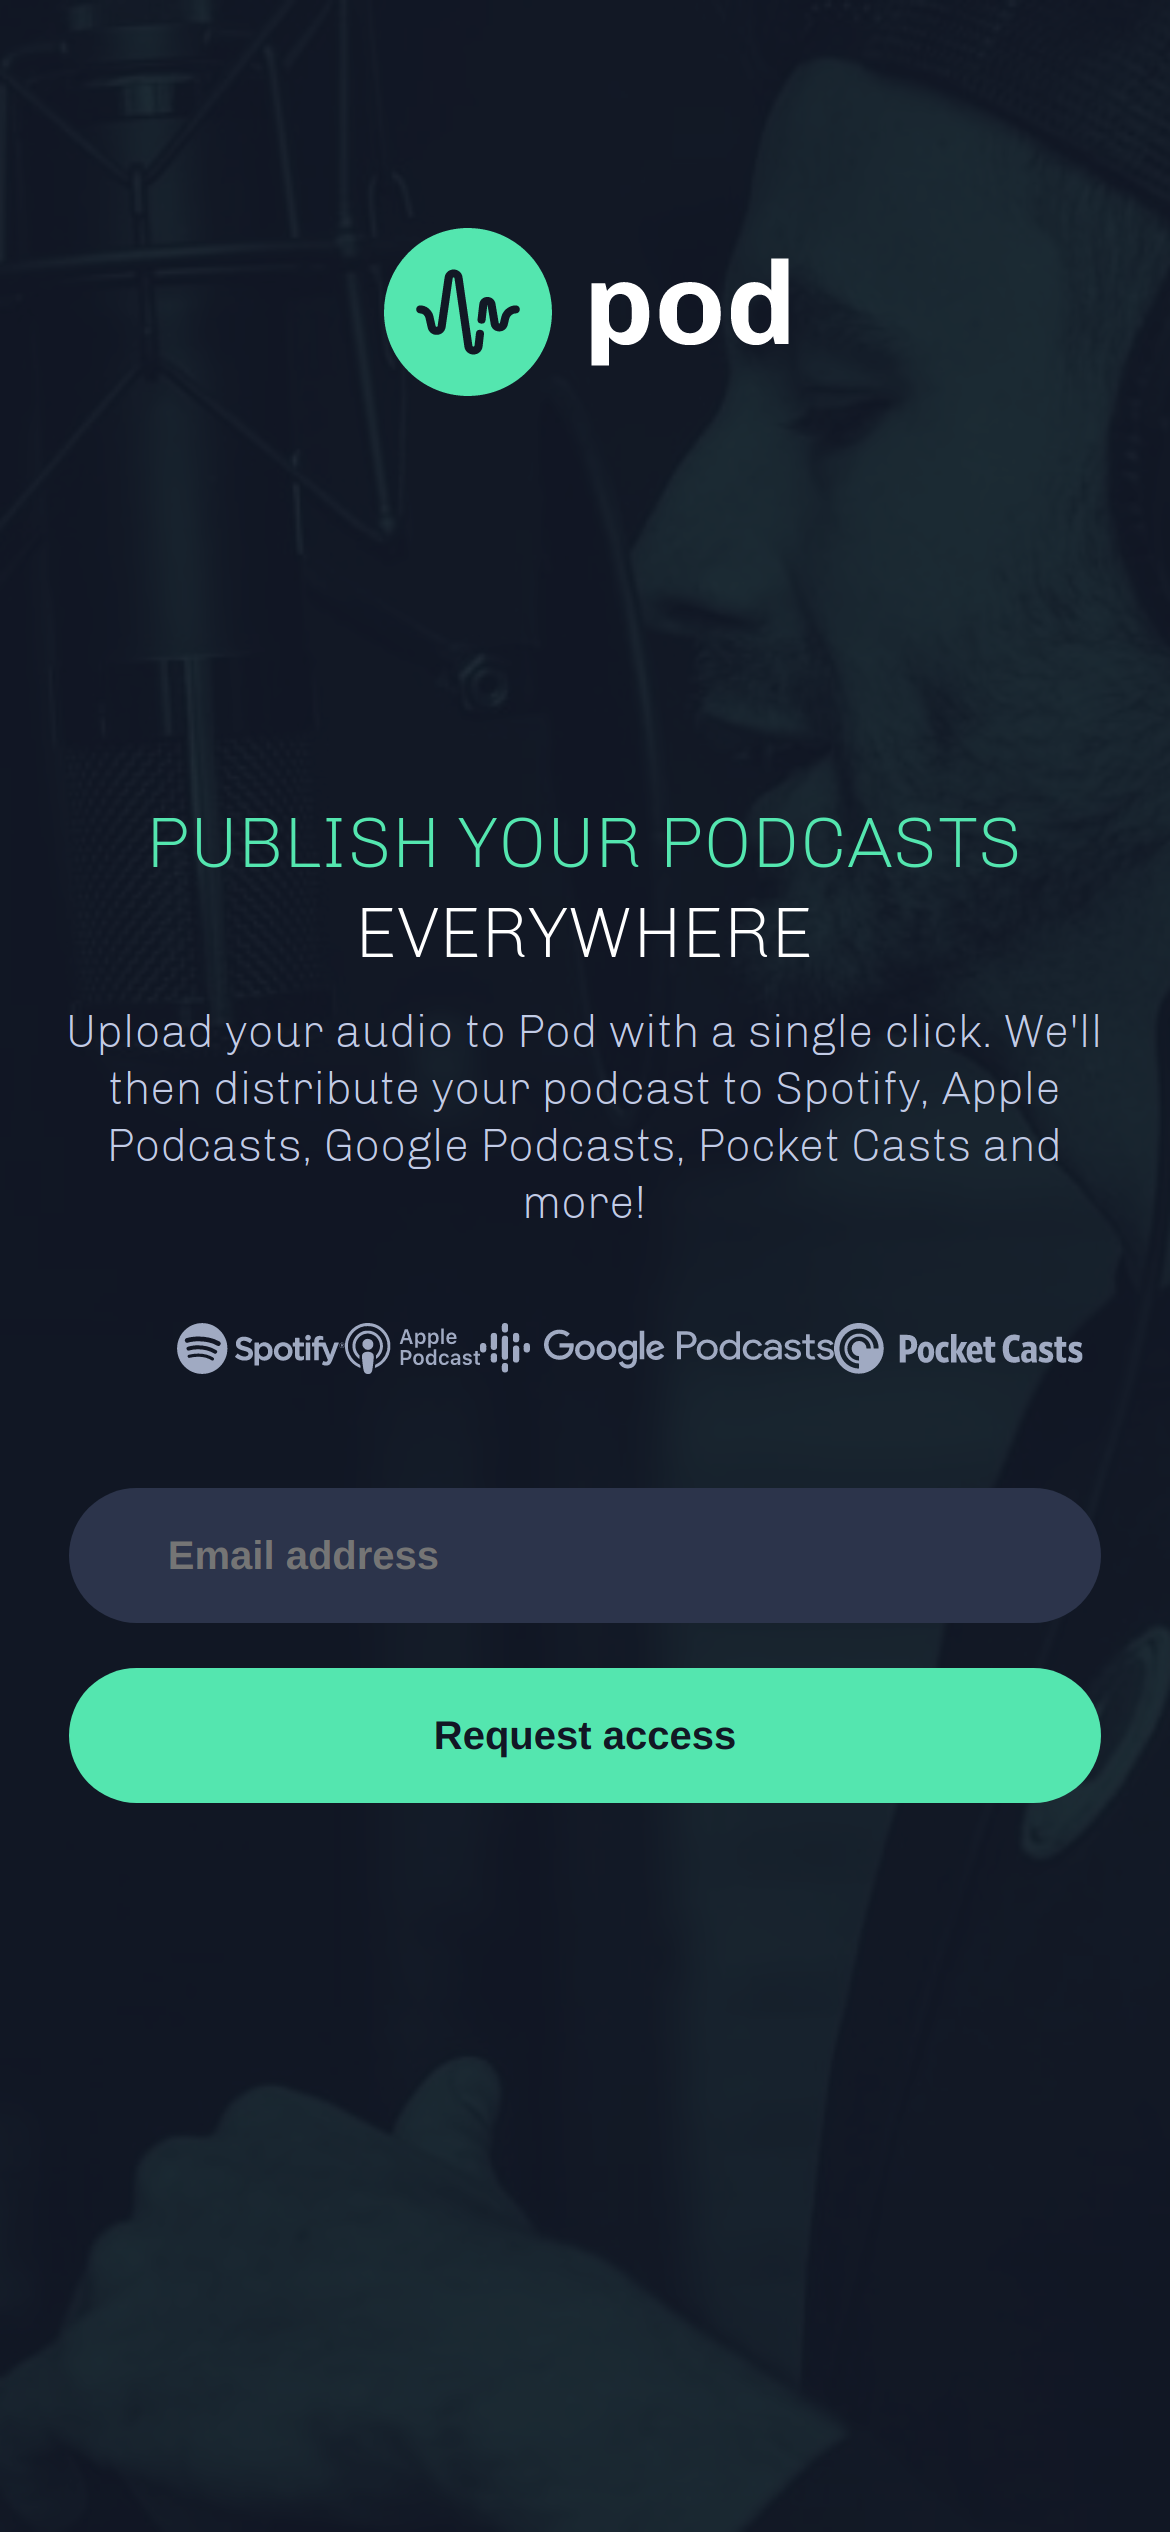
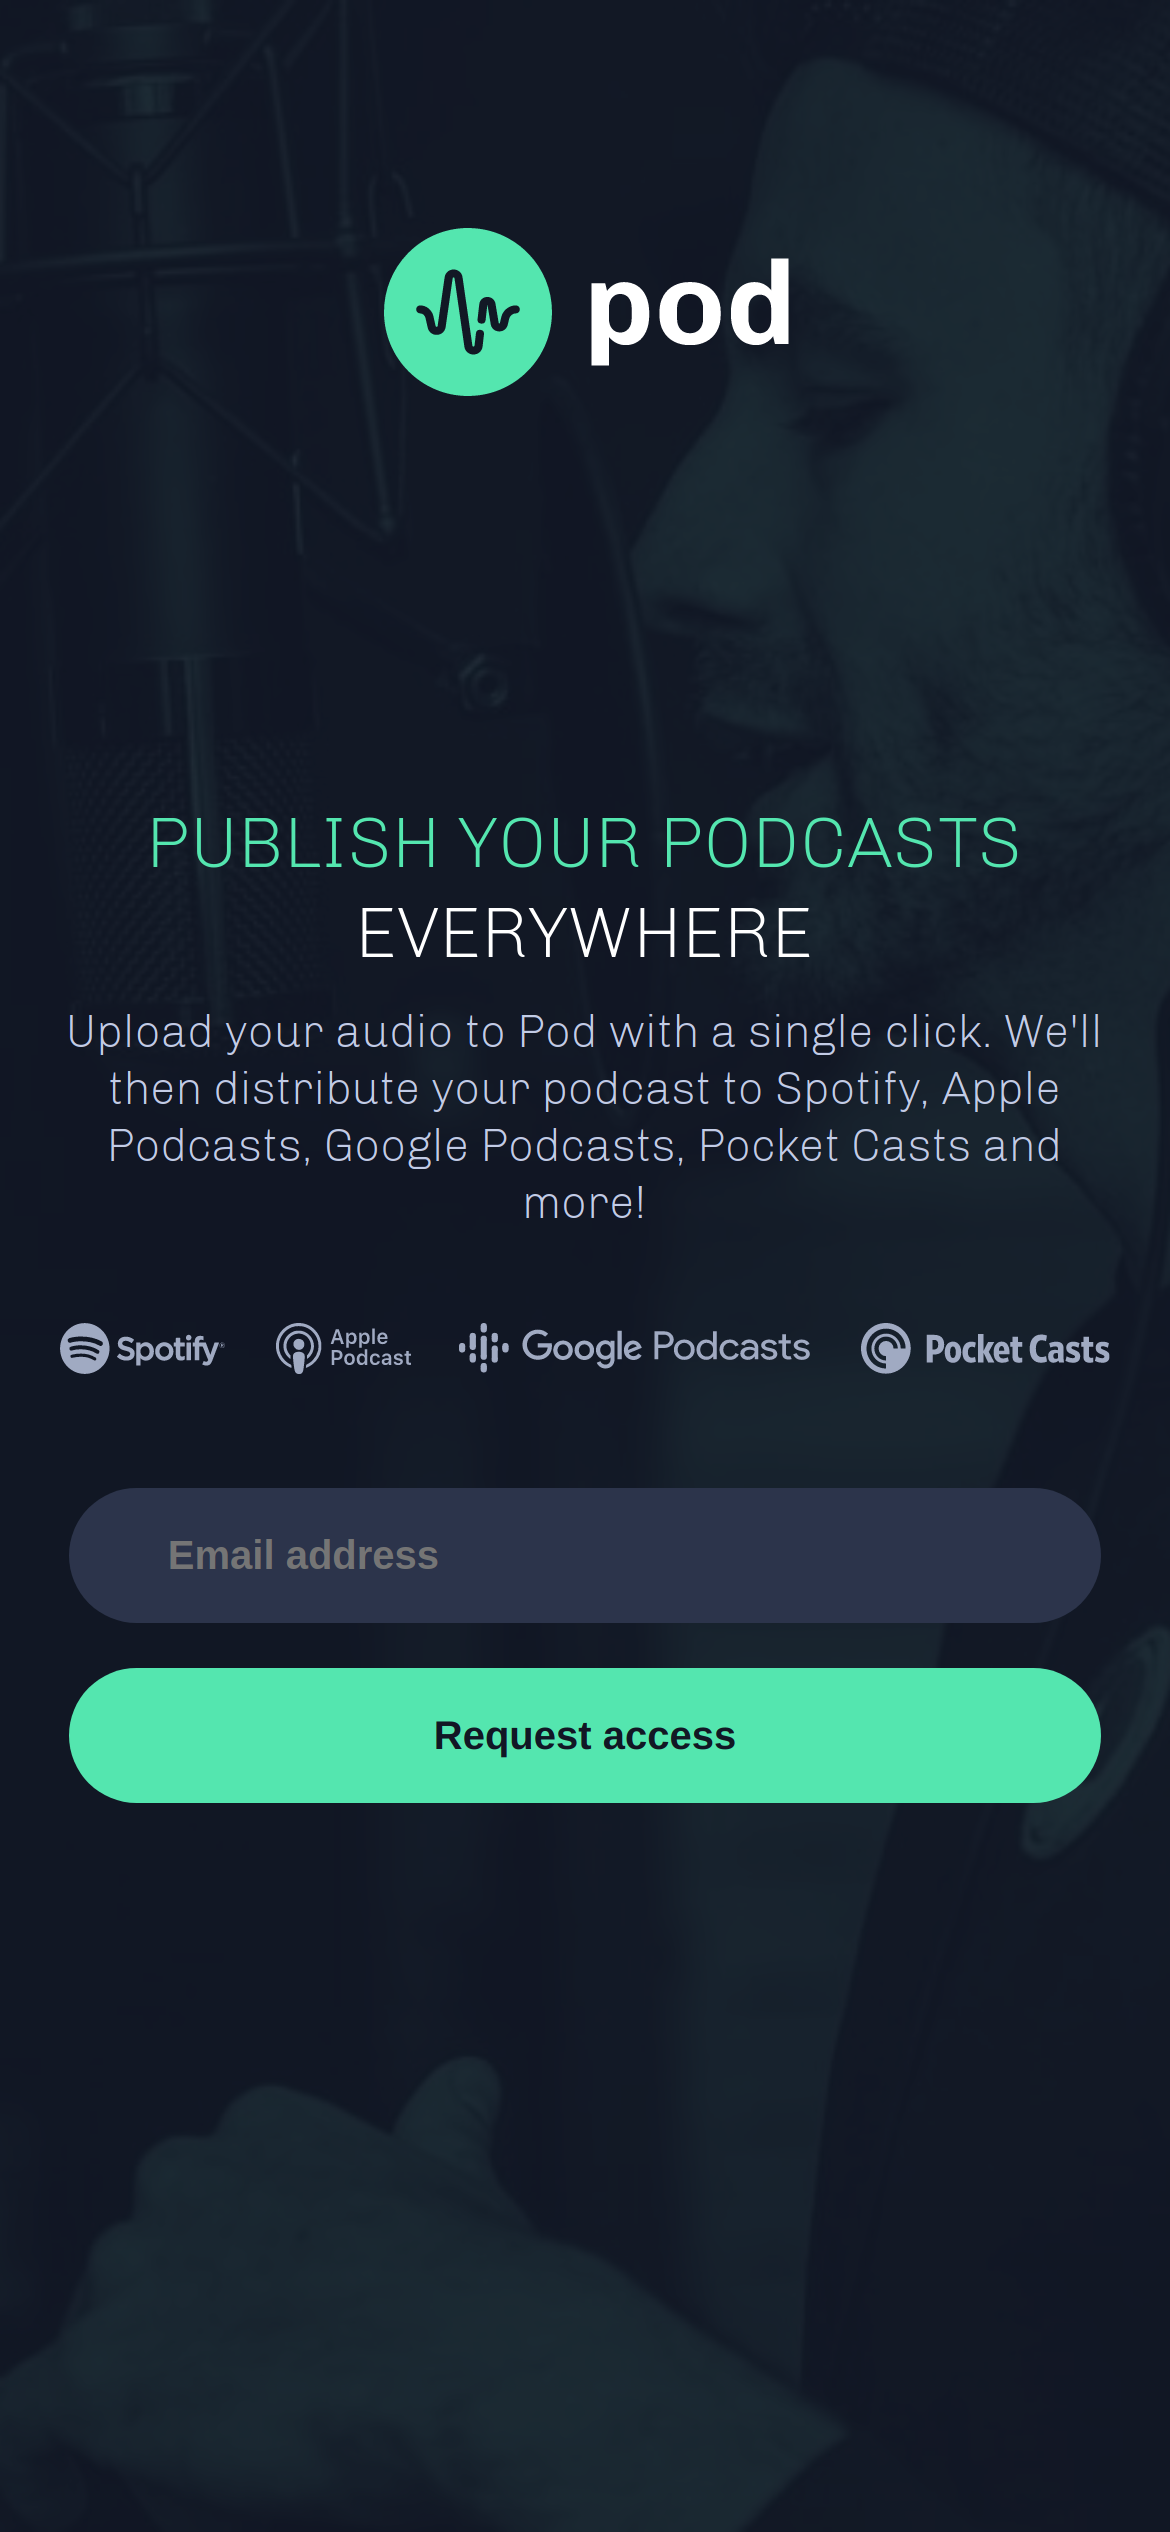
Update README

Changed region(s): [[0.0615, 0.4992, 0.4923, 0.5616], [0.6462, 0.4992, 0.9538, 0.5616], [0.5231, 0.5304, 0.5846, 0.5616]]

diff --git a/dist/style.css b/dist/style.css
@@ -332,10 +332,12 @@ main {
     padding: 0 1ch;
   }
   .logos {
-    max-width: 18em;
+    width: 100%;
     margin: 0 auto;
     margin-bottom: 2.5em;
-    height: 2vh;
+    height: 4vw;
+    padding: 0 2ch;
+    gap: 2vw;
     display: flex;
     justify-content: space-between;
     align-items: center;

diff --git a/src/style.scss b/src/style.scss
@@ -95,10 +95,12 @@
   }
 
   .logos {
-    max-width: 18em;
+    width: 100%;
     margin: 0 auto;
     margin-bottom: 2.5em;
-    height: 2vh;
+    height: 4vw;
+    padding: 0 2ch;
+    gap: 2vw;
     display: flex;
     justify-content: space-between;
     align-items: center;

diff --git a/README.md b/README.md
@@ -14,9 +14,6 @@ This is a solution to the [Pod request access landing page challenge on Frontend
   - [Continued development](#continued-development)
   - [Useful resources](#useful-resources)
 - [Author](#author)
-- [Acknowledgments](#acknowledgments)
-
-**Note: Delete this note and update the table of contents based on what sections you keep.**
 
 ## Overview
 
@@ -32,20 +29,12 @@ Users should be able to:
 
 ### Screenshot
 
-![](./screenshot.jpg)
-
-Add a screenshot of your solution. The easiest way to do this is to use Firefox to view your project, right-click the page and select "Take a Screenshot". You can choose either a full-height screenshot or a cropped one based on how long the page is. If it's very long, it might be best to crop it.
-
-Alternatively, you can use a tool like [FireShot](https://getfireshot.com/) to take the screenshot. FireShot has a free option, so you don't need to purchase it. 
-
-Then crop/optimize/edit your image however you like, add it to your project, and update the file path in the image above.
-
-**Note: Delete this note and the paragraphs above when you add your screenshot. If you prefer not to add a screenshot, feel free to remove this entire section.**
+![device frame screenshots](./deviceframes-transparent.png)
 
 ### Links
 
-- Solution URL: [Add solution URL here](https://your-solution-url.com)
-- Live Site URL: [Add live site URL here](https://your-live-site-url.com)
+- Solution URL: [Github Repo](https://https://github.com/jmcbutter/landing-page)
+- Live Site URL: [Github Pages](https://jmcbutter.github.io/landing-page/dist/index.html)
 
 ## My process
 
@@ -54,61 +43,63 @@ Then crop/optimize/edit your image however you like, add it to your project, and
 - Semantic HTML5 markup
 - CSS custom properties
 - Flexbox
-- CSS Grid
-- Mobile-first workflow
-- [React](https://reactjs.org/) - JS library
-- [Next.js](https://nextjs.org/) - React framework
-- [Styled Components](https://styled-components.com/) - For styles
-
-**Note: These are just examples. Delete this note and replace the list above with your own choices**
+- SASS
+- JavaScript (Client-Side Form Validation)
 
 ### What I learned
 
-Use this section to recap over some of your major learnings while working through this project. Writing these out and providing code samples of areas you want to highlight is a great way to reinforce your own knowledge.
-
-To see how you can add code snippets, see below:
+Using `<picture>` and `<source srcset="">` to improve performance and serve differently cropped images to control art direction.
 
 ```html
-<h1>Some HTML code I'm proud of</h1>
+<picture>
+  <source srcset="./assets/tablet/image-host.jpg" media="(max-width: 1200px)">
+  <source srcset="./assets/mobile/image-host.jpg" media="(max-width: 700px)">
+  <img class="image--landing" alt="" src="./assets/desktop/image-host.jpg">
+</picture>
 ```
+Using psuedo-elements to control styling based on form validity.
 ```css
-.proud-of-this-css {
-  color: papayawhip;
-}
-```
-```js
-const proudOfThisFunc = () => {
-  console.log('🎉')
-}
+    &:not(:placeholder-shown) {
+      /.../
+    }
+
+    &:invalid:not(:placeholder-shown) {
+      /.../
+    }
+
+    &:invalid:focus {
+      /.../
+    }
+
+    &:valid {
+      /.../
+    }
 ```
 
-If you want more help with writing markdown, we'd recommend checking out [The Markdown Guide](https://www.markdownguide.org/) to learn more.
+Using media-queries to create a responsive design based on screen size.
 
-**Note: Delete this note and the content within this section and replace with your own learnings.**
+```css
+@media screen and (max-width: $desktop-breakpoint) {
+  /.../
+}
+```
 
 ### Continued development
 
-Use this section to outline areas that you want to continue focusing on in future projects. These could be concepts you're still not completely comfortable with or techniques you found useful that you want to refine and perfect.
-
-**Note: Delete this note and the content within this section and replace with your own plans for continued development.**
+Continue focusing on responsive design. Additionally, improve comfortability
+with SASS mixins, variables, etc.
 
 ### Useful resources
 
-- [Example resource 1](https://www.example.com) - This helped me for XYZ reason. I really liked this pattern and will use it going forward.
-- [Example resource 2](https://www.example.com) - This is an amazing article which helped me finally understand XYZ. I'd recommend it to anyone still learning this concept.
-
-**Note: Delete this note and replace the list above with resources that helped you during the challenge. These could come in handy for anyone viewing your solution or for yourself when you look back on this project in the future.**
+- [The Odin Project](https://www.theodinproject.com/) - The lessons and links that
+this site contains have helped me understand frontend web development
+better than I could have on my own.
+- [CSS Tricks](https://css-tricks.com/) - Conatins almost anything you want to know
+about CSS, with easy-to-understand examples.
 
 ## Author
 
-- Website - [Add your name here](https://www.your-site.com)
-- Frontend Mentor - [@yourusername](https://www.frontendmentor.io/profile/yourusername)
-- Twitter - [@yourusername](https://www.twitter.com/yourusername)
-
-**Note: Delete this note and add/remove/edit lines above based on what links you'd like to share.**
-
-## Acknowledgments
-
-This is where you can give a hat tip to anyone who helped you out on this project. Perhaps you worked in a team or got some inspiration from someone else's solution. This is the perfect place to give them some credit.
-
-**Note: Delete this note and edit this section's content as necessary. If you completed this challenge by yourself, feel free to delete this section entirely.**
+- Website - [Jordan Butterfield](https://jmbutterfield.com)
+- Github - [@jmcbutter](https://github.com/jmcbutter)
+- Frontend Mentor - [@jmcbutter](https://www.frontendmentor.io/profile/jmcbutter)
+- LinkedIn - [Jordan Butterfield](https://www.linkedin.com/in/jordan-butterfield-933274a9/)
